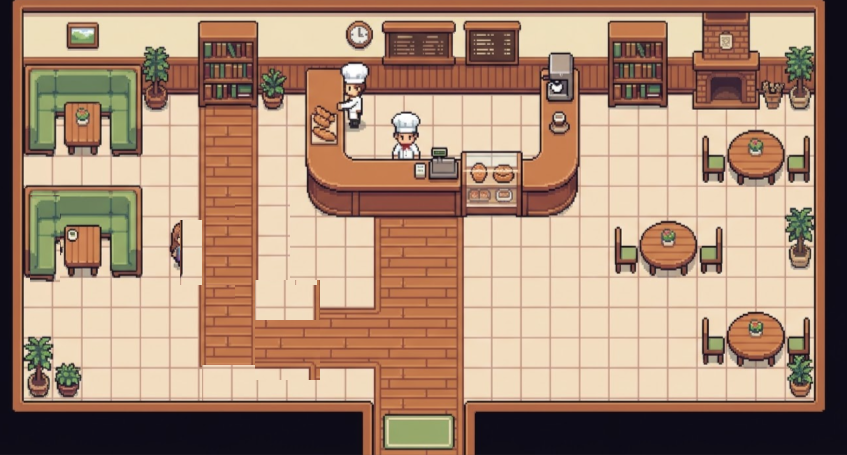
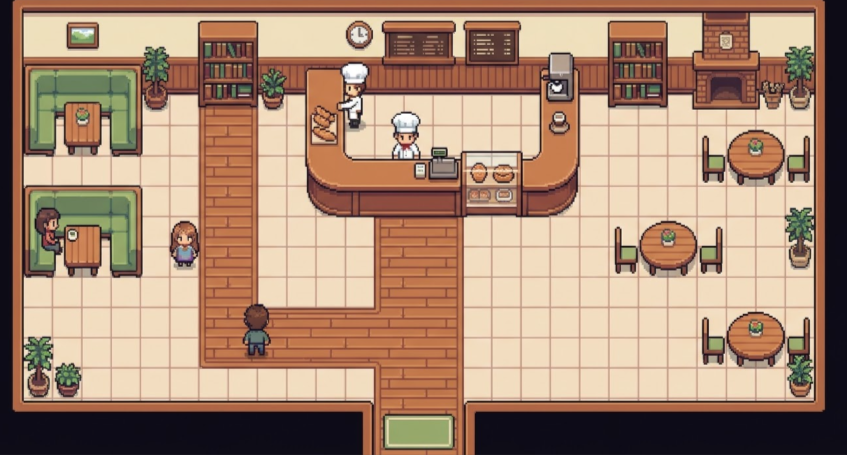
walk freely

diff --git a/scripts/lounge.js b/scripts/lounge.js
@@ -278,35 +278,7 @@ document.addEventListener('DOMContentLoaded', () => {
       return true;
     }
 
-    // 2. Bookshelf 1
-    if (px >= 180 && px <= 230 && py >= 120 && py <= 185) return true;
-    // 3. Bookshelf 2
-    if (px >= 560 && px <= 610 && py >= 120 && py <= 185) return true;
-    // 4. Fireplace
-    if (px >= 635 && px <= 695 && py >= 120 && py <= 185) return true;
-
-    // 5. U-shaped Counter (entire area including inside)
-    if (px >= 285 && px <= 525 && py >= 120 && py <= 325) return true;
-
-    // 6. Booth 1 (Top Left Table)
-    if (px >= 60 && px <= 95 && py >= 180 && py <= 230) return true;
-    // 7. Booth 2 (Bottom Left Table)
-    if (px >= 60 && px <= 95 && py >= 370 && py <= 420) return true;
-
-    // 8. Round Table 1 (Top Right)
-    if (px >= 660 && px <= 720 && py >= 205 && py <= 260) return true;
-    // 9. Round Table 2 (Middle Right)
-    if (px >= 580 && px <= 640 && py >= 315 && py <= 370) return true;
-    // 10. Round Table 3 (Bottom Right)
-    if (px >= 660 && px <= 720 && py >= 415 && py <= 470) return true;
-
-    // 11. Plants
-    if (px >= 130 && px <= 160 && py >= 120 && py <= 175) return true;
-    if (px >= 10 && px <= 80 && py >= 410 && py <= 450) return true;
-    if (px >= 720 && px <= 760 && py >= 315 && py <= 365) return true;
-    if (px >= 720 && px <= 760 && py >= 415 && py <= 465) return true;
-    if (px >= 710 && px <= 740 && py >= 120 && py <= 175) return true;
-
+    // Interior collisions removed so the character can walk freely
     return false;
   }
 